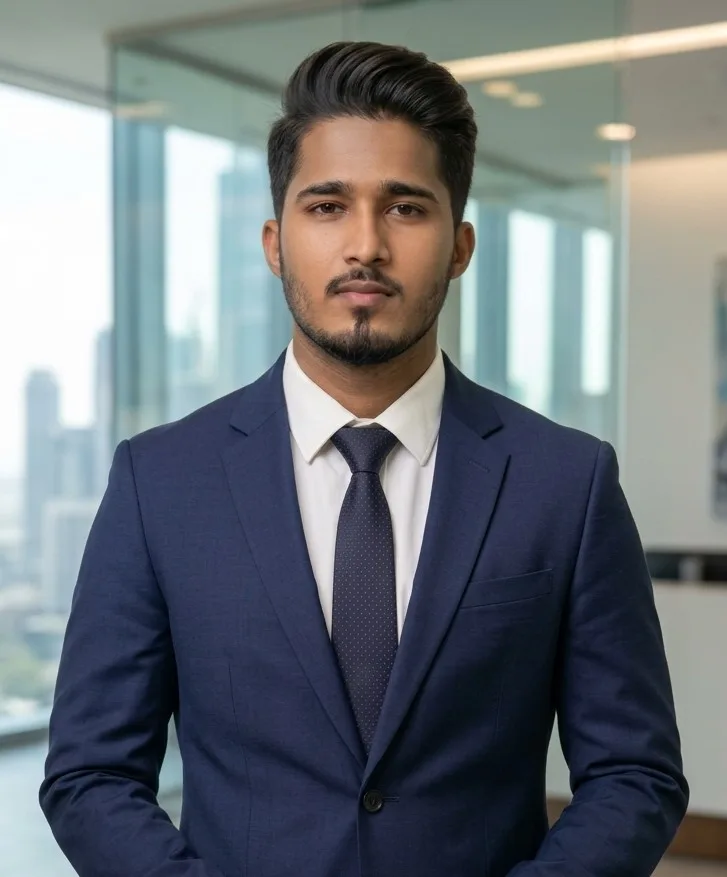
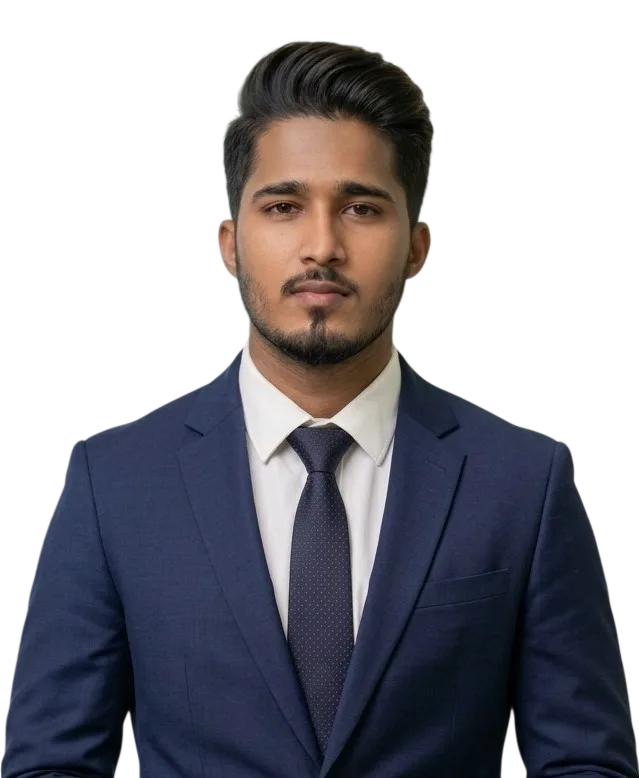
perf(assets): add WebP conversion, srcset encoding, and fix certificate paths

diff --git a/src/utils/schema.js b/src/utils/schema.js
@@ -1,22 +1,58 @@
 import { Bio, projects } from '../data/constants';
 
+const SITE_URL = 'https://usmanmurtaza.netlify.app';
+const PERSON_ID = `${SITE_URL}/#person`;
+const WEBSITE_ID = `${SITE_URL}/#website`;
+
 /**
- * Person schema – comprehensive JSON-LD for a full-stack developer.
+ * Person schema – the canonical, machine-readable definition of Usman Murtaza.
+ *
+ * The @id is stable so other entities (WebSite, projects, etc.) can reference
+ * this exact person node. knowsAbout lists only technologies and disciplines
+ * that are actually present in the portfolio data and project stacks.
  */
 export const getPersonSchema = () => ({
   '@context': 'https://schema.org',
   '@type': 'Person',
-  '@id': 'https://usmanmurtaza.netlify.app/#person',
+  '@id': PERSON_ID,
   name: Bio.name,
   givenName: 'Usman',
   familyName: 'Murtaza',
   jobTitle: 'Full Stack Developer',
   description:
     Bio.description ||
-    'Full Stack Developer building modern, responsive web applications with React, JavaScript, and Node.js — with a growing focus on UI/UX and AI-assisted workflows.',
-  url: 'https://usmanmurtaza.netlify.app',
-  image: 'https://usmanmurtaza.netlify.app/og-image.jpg',
+    'Full Stack Developer building modern, responsive web applications with React, JavaScript, and Node.js — creator of the Maniesta ecosystem.',
+  url: SITE_URL,
+  image: `${SITE_URL}/og-image.jpg`,
   sameAs: [Bio.github, Bio.linkedin, Bio.twitter, Bio.insta, Bio.facebook].filter(Boolean),
+  knowsAbout: [
+    'React.js',
+    'Next.js',
+    'Redux',
+    'JavaScript',
+    'Node.js',
+    'Express.js',
+    'Firebase',
+    'MongoDB',
+    'PostgreSQL',
+    'GraphQL',
+    'HTML5',
+    'CSS3',
+    'Bootstrap',
+    'Tailwind CSS',
+    'Material UI',
+    'Python',
+    'Git',
+    'GitHub',
+    'Figma',
+    'Full Stack Development',
+    'Web Development',
+    'UI/UX Design',
+    'Responsive Web Design',
+    'REST APIs',
+    'AI Integration',
+  ],
+  mainEntityOfPage: { '@id': WEBSITE_ID },
   worksFor: {
     '@type': 'Organization',
     name: 'Freelance',
@@ -27,57 +63,44 @@ export const getPersonSchema = () => ({
       name: 'Ilma University, Karachi',
     },
   ],
-  knowsAbout: [
-    'React.js',
-    'JavaScript',
-    'Node.js',
-    'Express.js',
-    'MongoDB',
-    'PostgreSQL',
-    'Next.js',
-    'Redux',
-    'GraphQL',
-    'HTML5',
-    'CSS3',
-    'Tailwind CSS',
-    'Material UI',
-    'REST APIs',
-    'UI/UX Design',
-    'Responsive Design',
-    'AI Integration',
-  ],
 });
 
 /**
- * WebSite schema – helps search engines understand the entire portfolio.
+ * WebSite schema – the portfolio site itself, published by and about
+ * Usman Murtaza. The `about` property connects the site to the Person
+ * entity so search engines understand the site belongs to this person.
  */
 export const getWebSiteSchema = () => ({
   '@context': 'https://schema.org',
   '@type': 'WebSite',
-  '@id': 'https://usmanmurtaza.netlify.app/#website',
-  url: 'https://usmanmurtaza.netlify.app',
+  '@id': WEBSITE_ID,
+  url: SITE_URL,
   name: 'Usman Murtaza Portfolio',
   description:
-    'Portfolio of Usman Murtaza — Full Stack Developer building modern, responsive web applications with React, JavaScript, and Node.js. Explore the Maniesta ecosystem and other portfolio projects.',
-  publisher: {
-    '@id': 'https://usmanmurtaza.netlify.app/#person',
-  },
+    'Portfolio of Usman Murtaza — Full Stack Developer building modern, responsive web applications with React, JavaScript, and Node.js. Creator of the Maniesta ecosystem.',
+  inLanguage: 'en',
+  publisher: { '@id': PERSON_ID },
+  about: { '@id': PERSON_ID },
 });
 
 /**
- * SoftwareApplication list – projects as structured data.
- * Accepts an optional projects array; defaults to all non‑utility projects.
+ * SoftwareApplication list – every project in the portfolio, each linked
+ * back to Usman Murtaza as both author and creator. This is the primary
+ * machine-readable signal that Usman Murtaza is the developer behind the
+ * Maniesta-family projects and the other portfolio work.
+ *
+ * Accepts an optional projects array; defaults to all projects.
  */
 export const getWebApplicationSchema = customProjects => {
   const allProjects = customProjects || projects;
-  const featured = allProjects.filter(p => p.level !== 'utility');
 
   return {
     '@context': 'https://schema.org',
     '@type': 'ItemList',
-    name: `${Bio.name}'s Featured Projects`,
-    description: 'Production‑grade web applications and SaaS products.',
-    itemListElement: featured.map((p, index) => ({
+    '@id': `${SITE_URL}/#projects`,
+    name: `${Bio.name} — Projects and Maniesta Ecosystem`,
+    description: 'Web applications and Maniesta-family products created by Usman Murtaza.',
+    itemListElement: allProjects.map((p, index) => ({
       '@type': 'SoftwareApplication',
       position: index + 1,
       name: p.title,
@@ -85,11 +108,10 @@ export const getWebApplicationSchema = customProjects => {
       applicationCategory: p.categoryNormalized || 'WebApplication',
       operatingSystem: 'Web',
       browserRequirements: 'Modern browsers',
-      url: p.links?.live || p.links?.github || 'https://usmanmurtaza.netlify.app',
+      url: p.links?.live || p.links?.github || SITE_URL,
       image: p.image || p.img,
-      author: {
-        '@id': 'https://usmanmurtaza.netlify.app/#person',
-      },
+      author: { '@id': PERSON_ID },
+      creator: { '@id': PERSON_ID },
       offers: {
         '@type': 'Offer',
         price: '0',

diff --git a/public/index.html b/public/index.html
@@ -33,9 +33,9 @@
   <title>Usman Murtaza | Full Stack Developer</title>
   <meta name="title" content="Usman Murtaza | Full Stack Developer" />
   <meta name="description"
-    content="Usman Murtaza is a Full Stack Developer and UI/UX-focused web developer building modern, responsive applications with React, JavaScript, Node.js, and AI-assisted workflows. Explore the Maniesta ecosystem and other portfolio projects." />
+    content="Usman Murtaza is a Full Stack Developer and the creator of the Maniesta ecosystem — building modern, responsive web applications with React, JavaScript, Node.js, and AI-assisted workflows. Explore Maniesta Campus, Maniesta Resume AI, ResumeAI Pro, Zain Real Estate, and other projects." />
   <meta name="keywords"
-    content="usman murtaza, full stack developer, react developer, web developer, javascript developer, node.js developer, frontend developer, backend developer, ui/ux designer, web development, react.js, javascript, node.js, modern web applications, portfolio, maniesta" />
+    content="usman murtaza, usman murtaza developer, usman murtaza full stack developer, usman murtaza react developer, usman murtaza portfolio, full stack developer, react developer, web developer, javascript developer, node.js developer, frontend developer, backend developer, ui/ux designer, web development, react.js, javascript, node.js, modern web applications, portfolio, maniesta, maniesta by usman murtaza, maniesta developer, maniesta ecosystem, maniesta campus, maniesta resume ai, resumeai pro, nexa calculator, zain real estate" />
   <meta name="author" content="Usman Murtaza" />
   <meta name="robots" content="index, follow" />
 
@@ -44,7 +44,7 @@
   <meta property="og:url" content="https://usmanmurtaza.netlify.app" />
   <meta property="og:title" content="Usman Murtaza | Full Stack Developer" />
   <meta property="og:description"
-    content="Full Stack Developer building modern, responsive web applications with React, JavaScript, and Node.js. Explore the Maniesta ecosystem and other portfolio projects." />
+    content="Full Stack Developer and creator of the Maniesta ecosystem — building modern, responsive web applications with React, JavaScript, and Node.js." />
   <meta property="og:image" content="https://usmanmurtaza.netlify.app/og-image.jpg" />
   <meta property="og:image:width" content="1200" />
   <meta property="og:image:height" content="630" />
@@ -52,46 +52,15 @@
 
   <!-- Twitter -->
   <meta name="twitter:card" content="summary_large_image" />
-  <meta name="twitter:title" content="Usman Murtaza — Full Stack Developer, React & UI/UX" />
+  <meta name="twitter:title" content="Usman Murtaza | Full Stack Developer" />
   <meta name="twitter:description"
-    content="Full Stack Developer building modern, responsive web applications with React, JavaScript, and Node.js." />
+    content="Full Stack Developer and creator of the Maniesta ecosystem — building modern, responsive web applications with React, JavaScript, and Node.js." />
   <meta name="twitter:image" content="https://usmanmurtaza.netlify.app/og-image.jpg" />
   <meta name="twitter:creator" content="@usman_murtazaa" />
 
-  <!-- JSON-LD Structured Data -->
-  <script type="application/ld+json">
-      {
-        "@context": "https://schema.org",
-        "@graph": [
-          {
-            "@type": "Person",
-            "name": "Usman Murtaza",
-            "url": "https://usmanmurtaza.netlify.app",
-            "jobTitle": "Full Stack Developer",
-            "sameAs": [
-              "https://github.com/Usmannmurtazaa",
-              "https://www.linkedin.com/in/Usmannmurtazaa/"
-            ]
-          },
-          {
-            "@type": "WebSite",
-            "name": "Usman Murtaza Portfolio",
-            "url": "https://usmanmurtaza.netlify.app"
-          },
-          {
-            "@type": "SoftwareApplication",
-            "name": "Portfolio",
-            "applicationCategory": "WebApplication",
-            "operatingSystem": "Web",
-            "offers": {
-              "@type": "Offer",
-              "price": "0",
-              "priceCurrency": "USD"
-            }
-          }
-        ]
-      }
-    </script>
+  <!-- JSON-LD structured data is injected at runtime by <SchemaMarkup />
+       (see src/components/SEO/SchemaMarkup.jsx and src/utils/schema.js).
+       Removing the static block here avoids duplicate JSON-LD in the head. -->
 
   <link rel="manifest" href="%PUBLIC_URL%/manifest.json" />
 </head>

diff --git a/src/utils/seo.js b/src/utils/seo.js
@@ -27,7 +27,7 @@ export const getMetaTags = (page, customData = {}) => {
     twitterCreator: siteMetadata.twitterHandle,
     author: siteMetadata.author,
     keywords:
-      'usman murtaza, full stack developer, react developer, javascript developer, node.js developer, ui/ux designer, web developer, frontend developer, portfolio, maniesta',
+      'usman murtaza, usman murtaza developer, usman murtaza full stack developer, usman murtaza react developer, usman murtaza portfolio, full stack developer, react developer, javascript developer, node.js developer, ui/ux designer, web developer, frontend developer, portfolio, maniesta, maniesta by usman murtaza, maniesta developer, maniesta ecosystem',
   };
 
   // Per‑page overrides
@@ -36,31 +36,31 @@ export const getMetaTags = (page, customData = {}) => {
       title: `${SITE_NAME} | Full Stack Developer`,
       description: DEFAULT_DESCRIPTION,
       keywords:
-        'usman murtaza, full stack developer, react developer, javascript developer, node.js developer, ui/ux designer, web developer, frontend developer, portfolio, maniesta, resume builder, campus management system',
+        'usman murtaza, usman murtaza developer, usman murtaza full stack developer, usman murtaza react developer, usman murtaza portfolio, full stack developer, react developer, javascript developer, node.js developer, ui/ux designer, web developer, frontend developer, portfolio, maniesta, maniesta by usman murtaza, maniesta developer, maniesta ecosystem, maniesta campus, maniesta resume ai, resumeai pro, nexa calculator, zain real estate',
     },
     projects: {
-      title: `Projects — ${SITE_NAME}`,
+      title: `Projects | ${SITE_NAME}`,
       description:
         'Selected projects by Usman Murtaza, including ResumeAI Pro, Maniesta Campus, Maniesta Resume AI, Zain Real Estate, Maniesta Suite, and the wider Maniesta ecosystem. Built with React, Node.js, Express, MongoDB, PostgreSQL, and modern front-end tooling.',
       keywords:
         'react projects, full stack projects, portfolio projects, maniesta, resumeai pro, maniesta campus, zain real estate, saas, web applications',
     },
     about: {
-      title: `About — ${SITE_NAME}`,
+      title: `About | ${SITE_NAME}`,
       description:
         'Learn about Usman Murtaza — a Full Stack Developer building modern, responsive web applications with React, JavaScript, and Node.js. Explore the Maniesta ecosystem and other portfolio work.',
       keywords:
         'about usman murtaza, full stack developer, react developer, ui/ux designer, karachi, pakistan, maniesta',
     },
     contact: {
-      title: `Contact — ${SITE_NAME}`,
+      title: `Contact | ${SITE_NAME}`,
       description:
         'Get in touch with Usman Murtaza for project inquiries, collaboration, or freelance work. Send a message and I will get back to you.',
       keywords:
         'contact usman murtaza, hire react developer, freelance developer, karachi, full stack developer',
     },
     tools: {
-      title: `Tools & Utilities — ${SITE_NAME}`,
+      title: `Tools & Utilities | ${SITE_NAME}`,
       description:
         'A collection of lightweight utility tools and web applications built by Usman Murtaza — including calculators, notes, weather, and other quick-use utilities.',
       keywords: 'developer tools, utilities, web apps, calculator, notes, weather, usman murtaza',

diff --git a/src/components/common/Signature/index.jsx b/src/components/common/Signature/index.jsx
@@ -115,11 +115,9 @@ const TextBlock = styled.span`
 
 const SignatureText = styled.span`
   display: inline-block;
-  /* Only system-available calligraphy fonts. Ordered by platform:
-     Windows → macOS → Windows alt → last-resort handwriting → generic. */
-  font-family:
-    'Brush Script MT', 'Lucida Handwriting', 'Apple Chancery', 'Segoe Script', 'Snell Roundhand',
-    'Comic Sans MS', cursive;
+  /* System calligraphy font available on Windows. Kept as the sole
+     entry in the stack so the signature always renders in this style. */
+  font-family: 'Brush Script MT';
   font-size: ${({ $fontSize }) => $fontSize};
   font-weight: 400;
   white-space: nowrap;
@@ -192,7 +190,7 @@ const UnderlineSvg = styled.svg`
 /* ---------- Component ---------- */
 
 const Signature = ({
-  children = 'Usman',
+  children = 'Usman.',
   fontSize = '2.4rem',
   height = 52,
   iconSize = 28,
@@ -210,14 +208,14 @@ const Signature = ({
         viewBox="0 0 24 24"
         fill="none"
         stroke="currentColor"
-        strokeWidth="1.6"
+        strokeWidth="1.8"
         strokeLinecap="round"
         strokeLinejoin="round"
       >
-        {/* Feather / quill — a small nod to calligraphy. */}
-        <path d="M20.24 12.24a6 6 0 0 0-8.49-8.49L5 10.5V19h8.5z" />
-        <line x1="16" y1="8" x2="2" y2="22" />
-        <line x1="17.5" y1="15" x2="9" y2="15" />
+        {/* Code icon — </> — pairs with the calligraphy signature. */}
+        <path d="m18 16 4-4-4-4" />
+        <path d="m6 8-4 4 4 4" />
+        <path d="m14.5 4-5 16" />
       </SignatureIcon>
 
       <TextBlock>

diff --git a/src/data/constants.js b/src/data/constants.js
@@ -2,7 +2,7 @@
 export const SeoContent = {
   pageTitle: 'Usman Murtaza | Full Stack Developer',
   metaDescription:
-    'Usman Murtaza is a Full Stack Developer and UI/UX-focused web developer building modern, responsive applications with React, JavaScript, Node.js, and AI-assisted workflows. Explore the Maniesta ecosystem and other portfolio projects.',
+    'Usman Murtaza is a Full Stack Developer and the creator of the Maniesta ecosystem — building modern, responsive web applications with React, JavaScript, Node.js, and AI-assisted workflows. Explore Maniesta Campus, Maniesta Resume AI, ResumeAI Pro, Zain Real Estate, and other projects.',
 };
 
 // Professional Summary for website header/hero section

diff --git a/src/index.js b/src/index.js
@@ -1,9 +1,11 @@
 import React from 'react';
 import ReactDOM from 'react-dom/client';
+import { HelmetProvider } from 'react-helmet-async';
 import App from './App';
 import './styles/global.css';
 import { initGA4 } from './analytics';
 
+// Init GA4 early (only in production)
 if (process.env.NODE_ENV === 'production') {
   initGA4();
 }
@@ -11,6 +13,8 @@ if (process.env.NODE_ENV === 'production') {
 const root = ReactDOM.createRoot(document.getElementById('root'));
 root.render(
   <React.StrictMode>
-    <App />
+    <HelmetProvider>
+      <App />
+    </HelmetProvider>
   </React.StrictMode>
 );

diff --git a/src/App.js b/src/App.js
@@ -2,6 +2,7 @@ import { useState, lazy, Suspense } from 'react';
 import Layout from './components/common/Layout/Layout';
 import LiveBackground from './components/common/LiveBackground';
 import Hero from './components/HeroSection';
+import { SchemaMarkup } from './components/SEO';
 import styled from 'styled-components';
 import './App.css';
 import './styles/global.css';
@@ -41,6 +42,7 @@ function App() {
   return (
     <Layout>
       <Body>
+        <SchemaMarkup />
         <LiveBackground />
         <Hero />
         <Suspense fallback={<SectionFallback />}>
